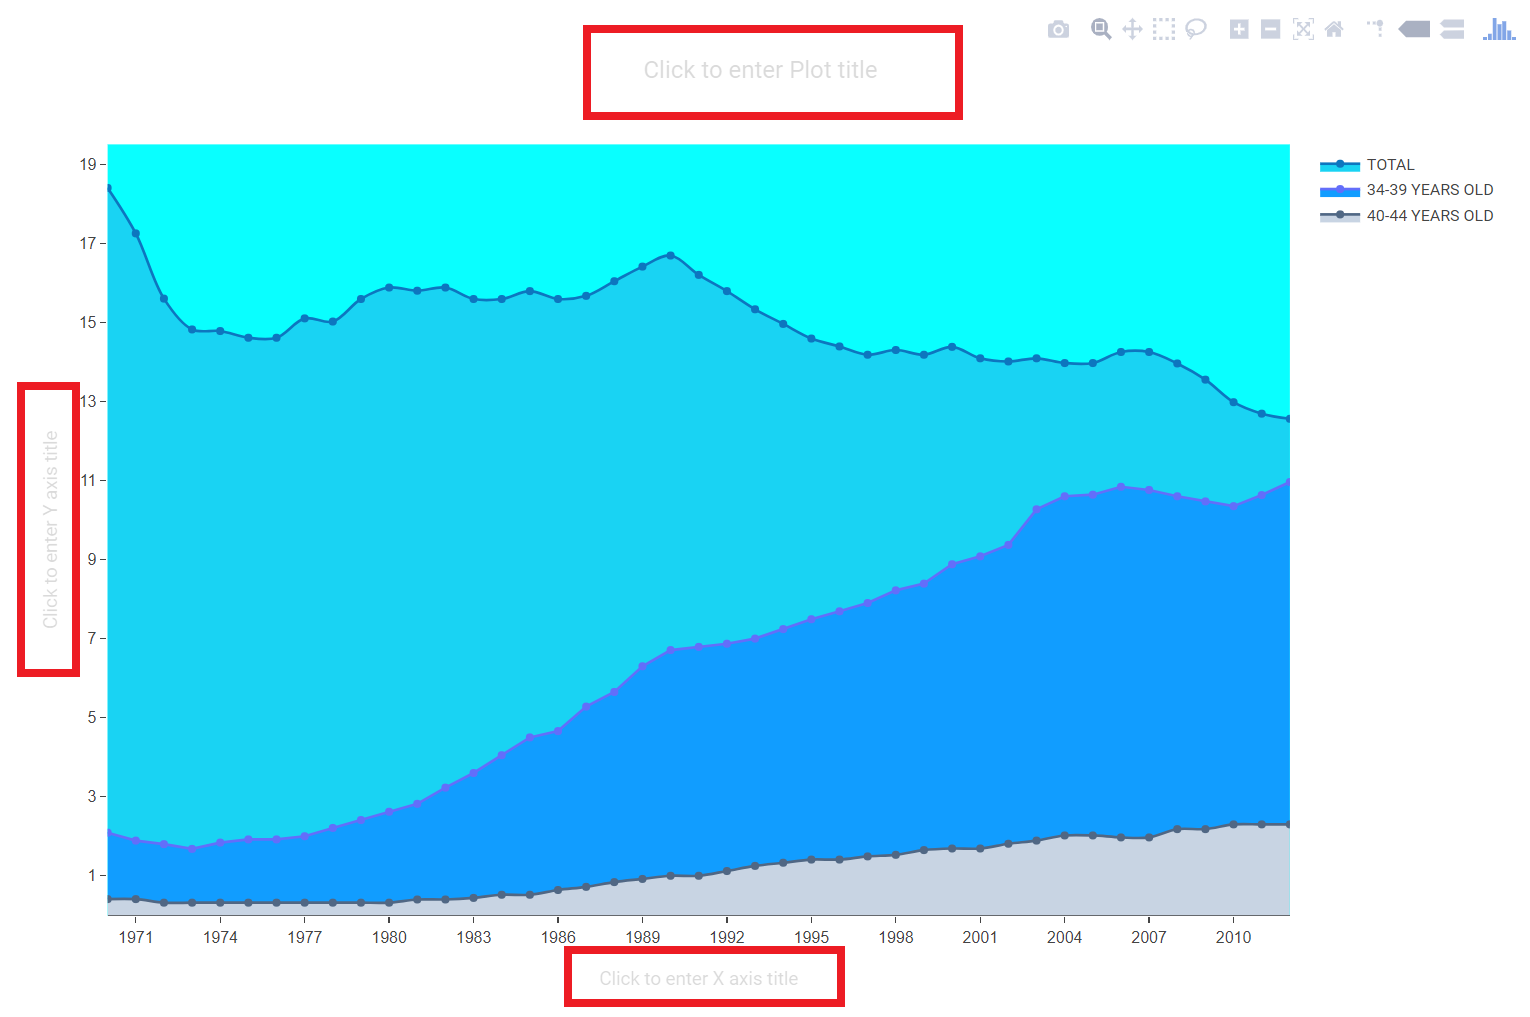
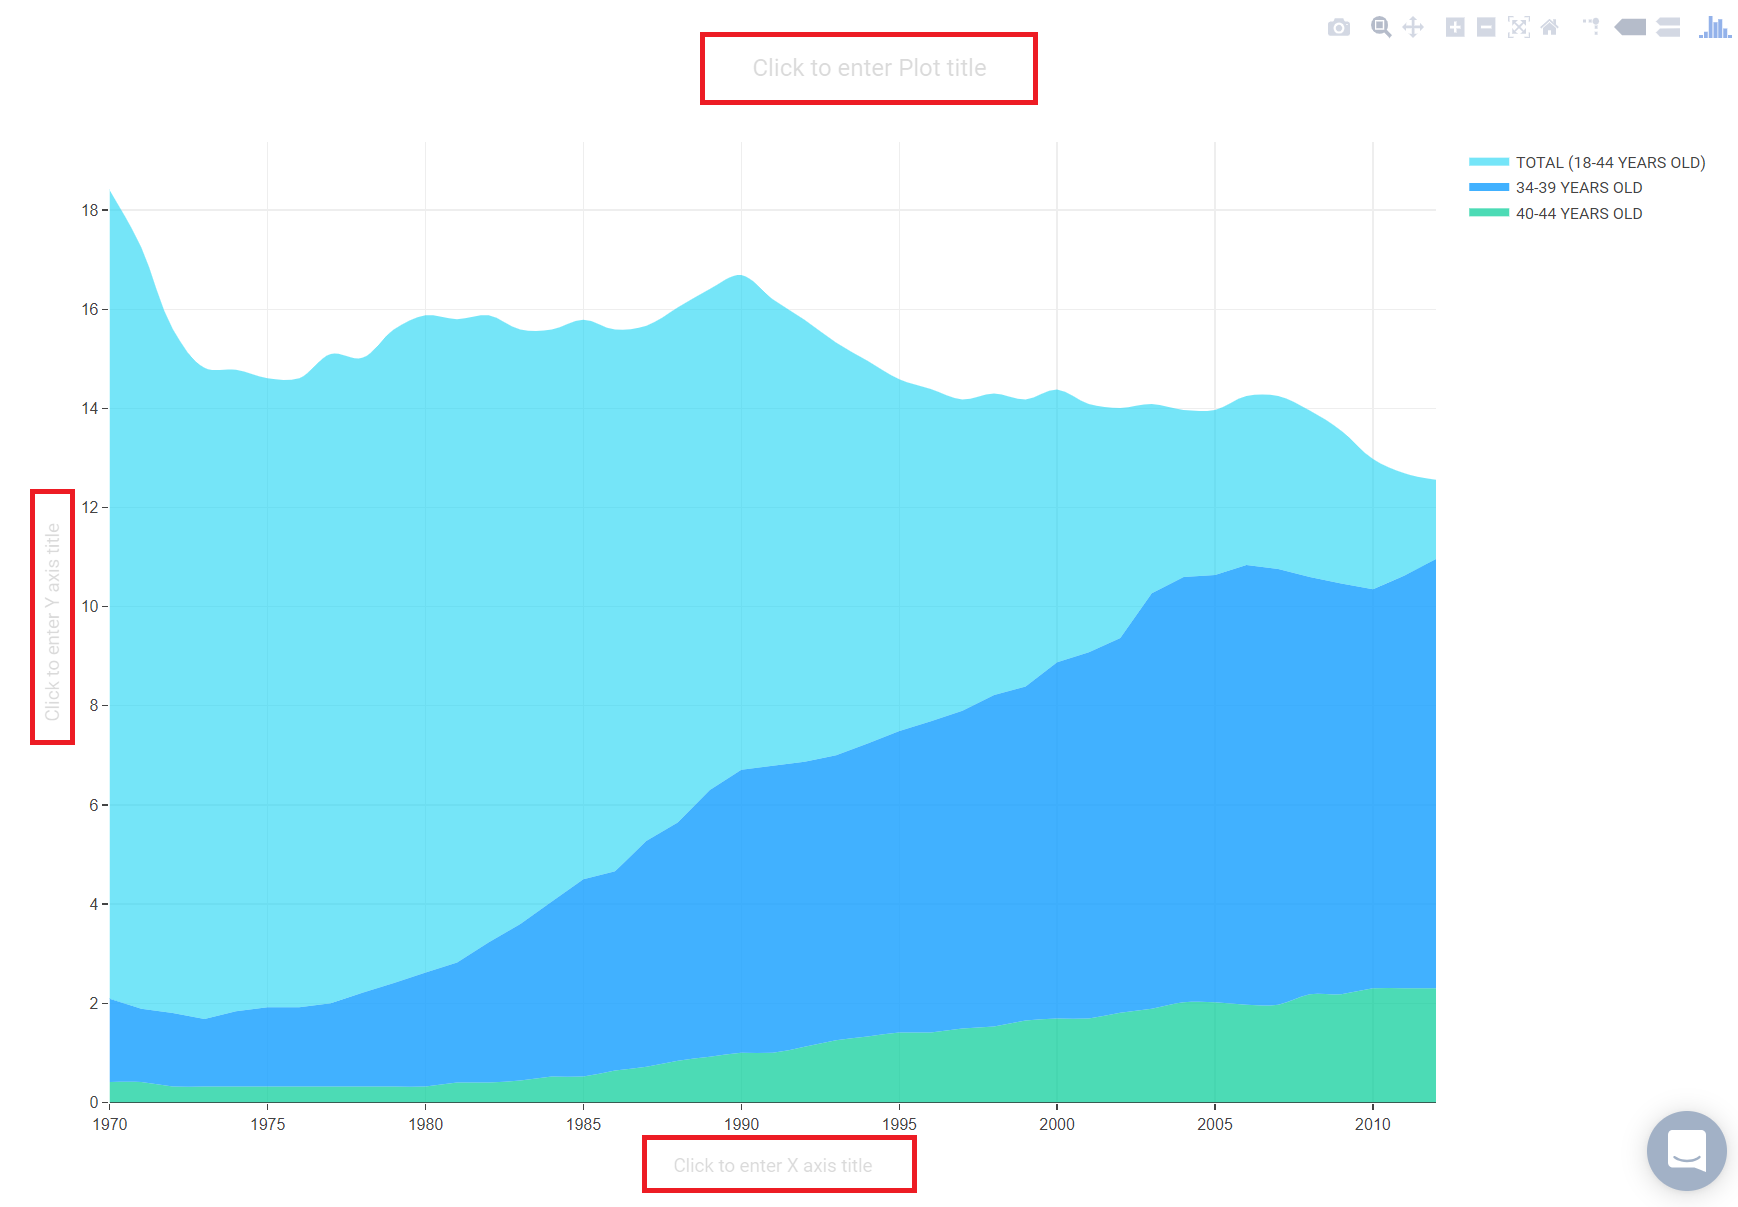
update area chart color styling and copy corrections

diff --git a/_posts/basic/2016-06-28-how-to-create-a-pie-chart.md b/_posts/basic/2016-06-28-how-to-create-a-pie-chart.md
@@ -1,7 +1,7 @@
 ---
 layout: tutorial-single_layout
 title: Pie Charts in Chart Studio
-subtitle: A type of statistical chart that uses "pie slices" to show relative sizes of data.
+subtitle: A circular statistical chart that uses "pie slices" to show proportional representations of data.
 permalink: /make-a-pie-chart/
 imageurl: ../static/images/create-pie-chart/new thumb.png
 state: active
@@ -40,9 +40,9 @@ steps:
  - title: Style a Chart
    sub-steps:
     - copy: "The 'Style' menu displays many options to modify characteristics of the overall chart layout or the individual traces. To see more options about styling the chart, visit the [style and layout](https://help.plot.ly/tutorials/#layout) section of the Chart Studio documentation."
-    - copy: "To change the properties of the pie trace, namely, change trace name, change color of the pie segments, add hole in the middle or pull effect to the pie segments/slices, go to the 'Traces' section under the 'Style' menu."
+    - copy: "Use the 'Traces' section under the 'Style' menu to change the properties of the traces, such as area color fill, markers, or line attributes."
       img: "![Pie Properties](../static/images/create-pie-chart/pie-properties.gif)"
-    - copy: "To set the plot title, go to the 'General' section under the 'Style' menu and type in the plot title within the textbox provided under 'Title'."
+    - copy: "Use the 'General' section under the 'Style' menu to change the layout background and margin color, set the plot title, and change the font styles."
       img: "![Plot Title](../static/images/create-pie-chart/pie-title.png)"  
     - copy: "Another approach is to click and then enter the title directly on the plot interface."
       img: "![Type directly title](../static/images/create-pie-chart/pie-title-direct.png)"
